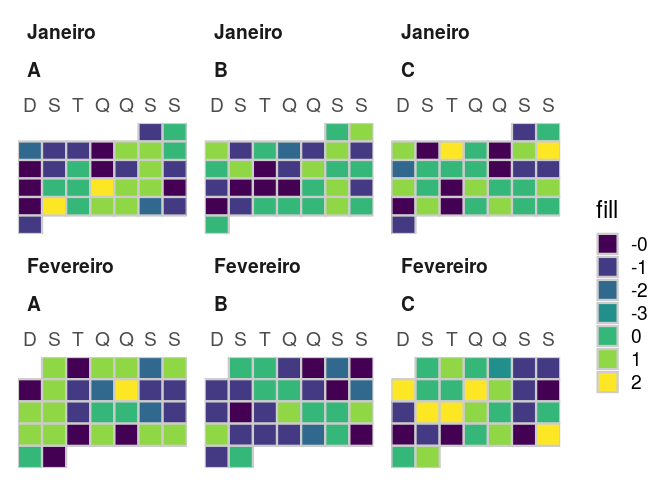
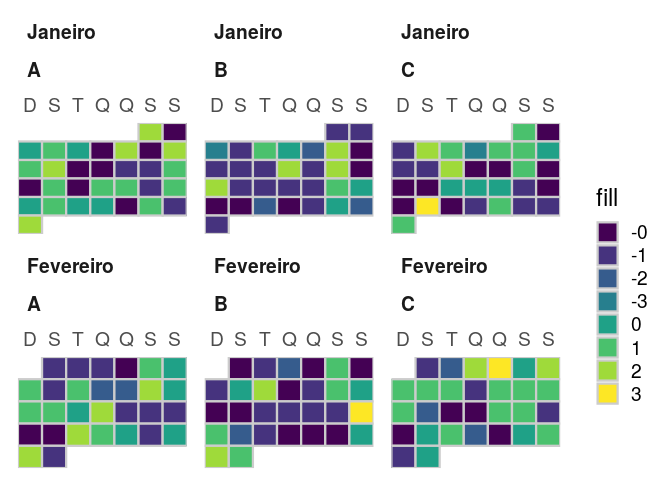
add func scale01

Changed region(s): [[0.0312, 0.7188, 0.8438, 1.0], [0.0312, 0.25, 0.8438, 0.5], [0.875, 0.375, 0.9688, 0.8438]]

diff --git a/README.md b/README.md
@@ -100,11 +100,11 @@ head(df)
 #> # A tibble: 6 x 9
 #>   grp   date       fill      x month    year monlabel     y wday 
 #>   <chr> <date>     <chr> <dbl> <ord>   <dbl> <fct>    <dbl> <ord>
-#> 1 A     2016-01-01 -1        5 janeiro  2016 Janeiro     10 Sex  
-#> 2 A     2016-01-02 0         6 janeiro  2016 Janeiro     10 Sáb  
-#> 3 A     2016-01-03 -2        0 janeiro  2016 Janeiro      9 Dom  
-#> 4 A     2016-01-04 -1        1 janeiro  2016 Janeiro      9 Seg  
-#> 5 A     2016-01-05 -1        2 janeiro  2016 Janeiro      9 Ter  
+#> 1 A     2016-01-01 2         5 janeiro  2016 Janeiro     10 Sex  
+#> 2 A     2016-01-02 -0        6 janeiro  2016 Janeiro     10 Sáb  
+#> 3 A     2016-01-03 0         0 janeiro  2016 Janeiro      9 Dom  
+#> 4 A     2016-01-04 1         1 janeiro  2016 Janeiro      9 Seg  
+#> 5 A     2016-01-05 0         2 janeiro  2016 Janeiro      9 Ter  
 #> 6 A     2016-01-06 -0        3 janeiro  2016 Janeiro      9 Qua
 
 df %>% 
@@ -120,10 +120,10 @@ df %>%
 x <- rexp(20,.5)
 
 x
-#>  [1] 0.30138730 6.16176821 0.84381754 5.26088526 3.05339848 0.22066048
-#>  [7] 1.44721656 0.64691094 6.58140231 0.56089856 0.53891895 1.70002008
-#> [13] 0.30213813 0.58854067 3.70621210 2.30330046 0.07327182 1.37573138
-#> [19] 2.20282485 0.32802576
+#>  [1] 1.89599263 4.50506953 1.71776172 1.94380798 0.01750844 1.88013313
+#>  [7] 5.03444907 0.30076595 1.53995196 1.13018828 2.62573258 3.14514321
+#> [13] 0.24465338 1.07007163 2.86454990 0.77972041 0.99306952 6.71351822
+#> [19] 2.98408302 1.05080126
 ```
 
 ### Coefficient of Variation (CV)
@@ -131,11 +131,11 @@ x
 ``` r
 #raw
 cv(x, perc = F)
-#> [1] 1.064462
+#> [1] 0.8095792
 
 #%
 cv(x, perc = T)
-#> [1] 106.4462
+#> [1] 80.95792
 ```
 
 ### Mean’s
@@ -145,21 +145,21 @@ num_mean(x)
 #> # A tibble: 1 x 3
 #>   arithmetic geometric harmonic
 #>        <dbl>     <dbl>    <dbl>
-#> 1       1.91      1.03    0.501
+#> 1       2.12      1.32    0.269
 ```
 
 #### Harmonic mean
 
 ``` r
 harmonic_mean(x)
-#> [1] 0.5009991
+#> [1] 0.2690128
 ```
 
 #### Geometric mean
 
 ``` r
 geometric_mean(x)
-#> [1] 1.033811
+#> [1] 1.317884
 ```
 
 ### Numeric univariate summary statistics
@@ -169,7 +169,7 @@ num_summary(x)
 #> # A tibble: 1 x 13
 #>       n    na outlier negative equal_zero positive    min   p25   p50   p75
 #>   <int> <int>   <int>    <int>      <int>    <int>  <dbl> <dbl> <dbl> <dbl>
-#> 1    20     0       2        0          0       20 0.0733 0.486  1.11  2.49
+#> 1    20     0       1        0          0       20 0.0175  1.04  1.80  2.89
 #> # … with 3 more variables: max <dbl>, mean <dbl>, cv <dbl>
 ```
 
@@ -182,7 +182,7 @@ num_corr(x,y)
 #> # A tibble: 1 x 3
 #>   pearson kendall spearman
 #>     <dbl>   <dbl>    <dbl>
-#> 1 -0.0404 -0.0737  -0.0677
+#> 1  -0.448    -0.4   -0.579
 ```
 
 ## Others
